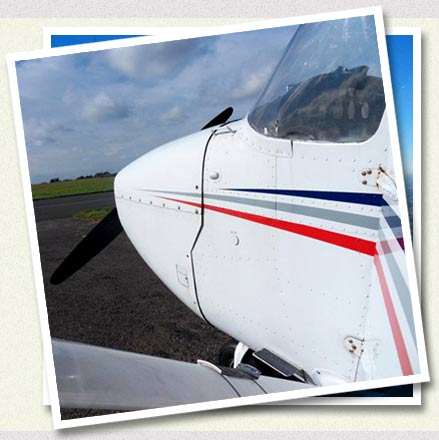
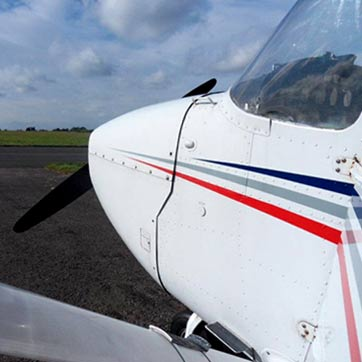
Home page feature images added

diff --git a/css/base.css b/css/base.css
@@ -155,8 +155,10 @@ header nav#MainNav ul li.selected a:hover {
 /* HEADER -> Members Nav */
 
 header nav#MembersNav {
+	float: left;
 	display: inline;
 	position: absolute;
+	z-index: 2;
 	top: 12px;
 	right: 0;
 	background: #454274;
@@ -171,14 +173,19 @@ header nav#MembersNav span {
 	font-size: 12px;
 	color: #fff;
 	font-weight: bold;
-	margin-right: 14px;
+	margin: 8px 14px 0 0;
+	float: left;
+	display: inline;
 }
 
 header nav#MembersNav button {
+	float: left;
+	display: inline;
 	font-size: 12px;
 	color: #1d1b40;
 	background: #f3d93c;
 	padding: 6px 10px;
+	margin: 0;
 	font-weight: bold;
 	border: none;
 	cursor: pointer;
@@ -189,23 +196,26 @@ header nav#MembersNav button {
 }
 
 header nav#MembersNav ul {
-	margin: 0 auto;
+	margin: 0;
 	padding: 0;
 	list-style-type: none;
+	float: left;
 	display: inline;
 }
 
 header nav#MembersNav ul li {
-	margin: 0 0 0 -4px;
+	margin: 0;
 	padding: 0;
 	list-style-type: none;
 	text-align: center;
+	float: left;
 	display: inline;
 }
 
 header nav#MembersNav ul li a {
+	float: left;
 	display: inline;
-	margin: 0 8px 0 0;
+	margin: 8px 8px 0 0;
 	padding: 0 8px 0 0;
 	list-style-type: none;
 	font-size: 12px;
@@ -216,14 +226,14 @@ header nav#MembersNav ul li a {
 header nav#MembersNav #MembersNavLogIn {
 	position: relative;
 	width: 100%;
-	height: 2px;
 	float: left;
+	display: inline;
 }
 
 header nav#MembersNav #MembersNavLogIn form {
 	position: absolute;
 	top: -4px;
-	right: 0;
+	right: 0px;
 	background: #f3d93c;
 	width: 280px;
 	padding: 14px;
@@ -264,6 +274,18 @@ header nav#MembersNav #MembersNavLogIn form #MembersNavClose {
 	font-weight: normal;
 	float: right;
 }
+
+/* HEADER -> Social Media */
+header #SocialMedia {
+	position: absolute;
+	z-index: 1;
+	top: 68px;
+	right: 0;
+}
+
+header #SocialMedia #Header-SocialMedia-Facebook { float: left; display: block; margin-left: 4px; }
+header #SocialMedia #Header-SocialMedia-Twitter { float: left; display: block; width: 55px; overflow: hidden; margin-left: 4px; }
+header #SocialMedia #Header-SocialMedia-Google { float: left; display: block; }
 
 /* HEADER -> Hover and selected state */
 
@@ -384,8 +406,17 @@ article .mainFeature .mainFeatureContent {
 
 article .mainFeature .mainFeatureImages {
 	position: absolute;
+	float: left;
+	display: inline;
+	background: url('../images/core/feature_img_frame.jpg') no-repeat top left;
+	width: 439px;
+	height: 440px;
 	top: -18px;
 	left: 36px;
+}
+
+article .mainFeature .mainFeatureImages img {
+	margin: 36px 51px;
 }
 
 article .largeCol {

diff --git a/js/base.js b/js/base.js
@@ -26,6 +26,11 @@ $(document).ready(function(){
 	
 	});
 
+	//HEADER - Memebers log in form submit
+	$("#MembersNavLogIn form").submit(function(){
+		$(this).slideUp();
+	});
+
 	//FOOTER - Open members log in
 	$("#FooterOnlineBooking").click(function(){
 		
@@ -36,5 +41,17 @@ $(document).ready(function(){
 		return false;
 	
 	});
+
+	//HOME PAGE FEATURE IMAGES
+	$('#HomeMainFeatureImages').crossSlide({
+	  sleep: 3,
+	  fade: 1.1
+	}, [
+	  { src: '../images/home/feature_1.jpg' },
+	  { src: '../images/home/feature_2.jpg' },
+	  { src: '../images/home/feature_3.jpg' },
+	  { src: '../images/home/feature_4.jpg' },
+	  { src: '../images/home/feature_5.jpg' }
+	]);
 
 });

diff --git a/common/header.php b/common/header.php
@@ -16,19 +16,58 @@
                 <li><button>Online booking</button></li>
             </ul>
 
-            <div id="MembersNavLogIn" class="clear">
-                <form method="post" action="#">
+            <div id="MembersNavLogIn">
+                <form method="post" action="http://213.239.220.199/aero-vor.ch/pro/lib/cgi-bin/login.cgi" name="frm" target="_blank">
+                    
+                    <input type="hidden" value="Enter" name="action">
+                    <input type="hidden" value="alouette_flying_club" name="company">
+
                     <label for="OnlineBookingUsername">Username</label>
-                    <input type="text" id="OnlineBookingUsername" name="OnlineBookingUsername" value="" />
+                    <input type="text" id="OnlineBookingUsername" name="Username" value="" />
 
                     <label for="OnlineBookingPassword">Password</label>
-                    <input type="password" id="OnlineBookingPassword" name="OnlineBookingPassword" value="" />
+                    <input type="password" id="OnlineBookingPassword" name="Password" size="15" value="" />
 
                     <input type="submit" class="button" value="Log in" />
                     <button id="MembersNavClose">Close</button>
                 </form>
             </div>
         </nav>
+
+        <?php if(!is_mobile_phone()) { ?>
+            <div id="SocialMedia">
+                
+                <?php $url="http://".$_SERVER['HTTP_HOST'].$_SERVER['REQUEST_URI']; ?>
+
+                <!-- GOOGLE -->
+                <span id="Header-SocialMedia-Google">
+                <!-- Place this tag where you want the +1 button to render -->
+                <g:plusone size="medium" annotation="none" href="<?php echo $url; ?>"></g:plusone>
+                
+                <!-- Place this render call where appropriate -->
+                <script type="text/javascript">
+                  (function() {
+                    var po = document.createElement('script'); po.type = 'text/javascript'; po.async = true;
+                    po.src = 'https://apis.google.com/js/plusone.js';
+                    var s = document.getElementsByTagName('script')[0]; s.parentNode.insertBefore(po, s);
+                  })();
+                </script>
+                </span>
+                
+                <!-- TWITTER -->
+                <span id="Header-SocialMedia-Twitter">
+                    <a href="https://twitter.com/share" class="twitter-share-button" data-url="<?php echo $url; ?>" data-count="none">Tweet</a>
+                    <script>!function(d,s,id){var js,fjs=d.getElementsByTagName(s)[0];if(!d.getElementById(id)){js=d.createElement(s);js.id=id;js.src="//platform.twitter.com/widgets.js";fjs.parentNode.insertBefore(js,fjs);}}(document,"script","twitter-wjs");</script>
+                </span>
+                
+                <!-- FACEBOOK -->
+                <span id="Header-SocialMedia-Facebook">
+                    <iframe src="//www.facebook.com/plugins/like.php?href=<?php echo $url; ?>&amp;send=false&amp;layout=button_count&amp;width=51&amp;show_faces=false&amp;action=like&amp;colorscheme=light&amp;font&amp;height=21" height="21" width="51" scrolling="no" frameborder="0" style="border:none; overflow:hidden;" allowTransparency="true"></iframe>
+                </span>
+            
+            </div>
+        <?php } ?>
+
 
     </div>
 

diff --git a/index.php b/index.php
@@ -7,6 +7,7 @@
 	<meta name="description" content="Desctiption here" />
 	<meta name="keywords" content="Keywords here" />
 	<?php include "common/page-head.php"; ?>
+    <script type="text/javascript" language="javascript" src="js/jquery.cross-slide.min.js"></script>
     
 </head>
 
@@ -18,8 +19,8 @@
 
 <article>
 	<div class="mainFeature">
-            <div class="mainFeatureImages">
-                <img src="../images/home/feature_1.jpg" width="439" height="440" alt="" />
+            <div id="HomeMainFeatureImages" class="mainFeatureImages">
+                <!-- -->
             </div>
 
             <div class="mainFeatureContent">

diff --git a/common/page-head.php b/common/page-head.php
@@ -17,4 +17,20 @@
 <!--<script type="text/javascript" language="javascript" src="http://html5shim.googlecode.com/svn/trunk/html5.js"></script>-->
 <script type="text/javascript" language="javascript" src="js/jquery-1.7.2.min.js"></script>
 <script type="text/javascript" language="javascript" src="js/base.js"></script>
+
+<?php
+	function is_mobile_phone()
+	{
+		$ua = strtolower($_SERVER['HTTP_USER_AGENT']);
+		$mobiles = array("iphone","ipad", "ipod", "blackberry", "nokia", "phone","mobile safari", "iemobile");
+		
+		foreach($mobiles as $mobile)
+		{
+			if(strpos($ua,$mobile)) return true;
+		}
+		
+		return false;
+		
+	}
+?>
     
